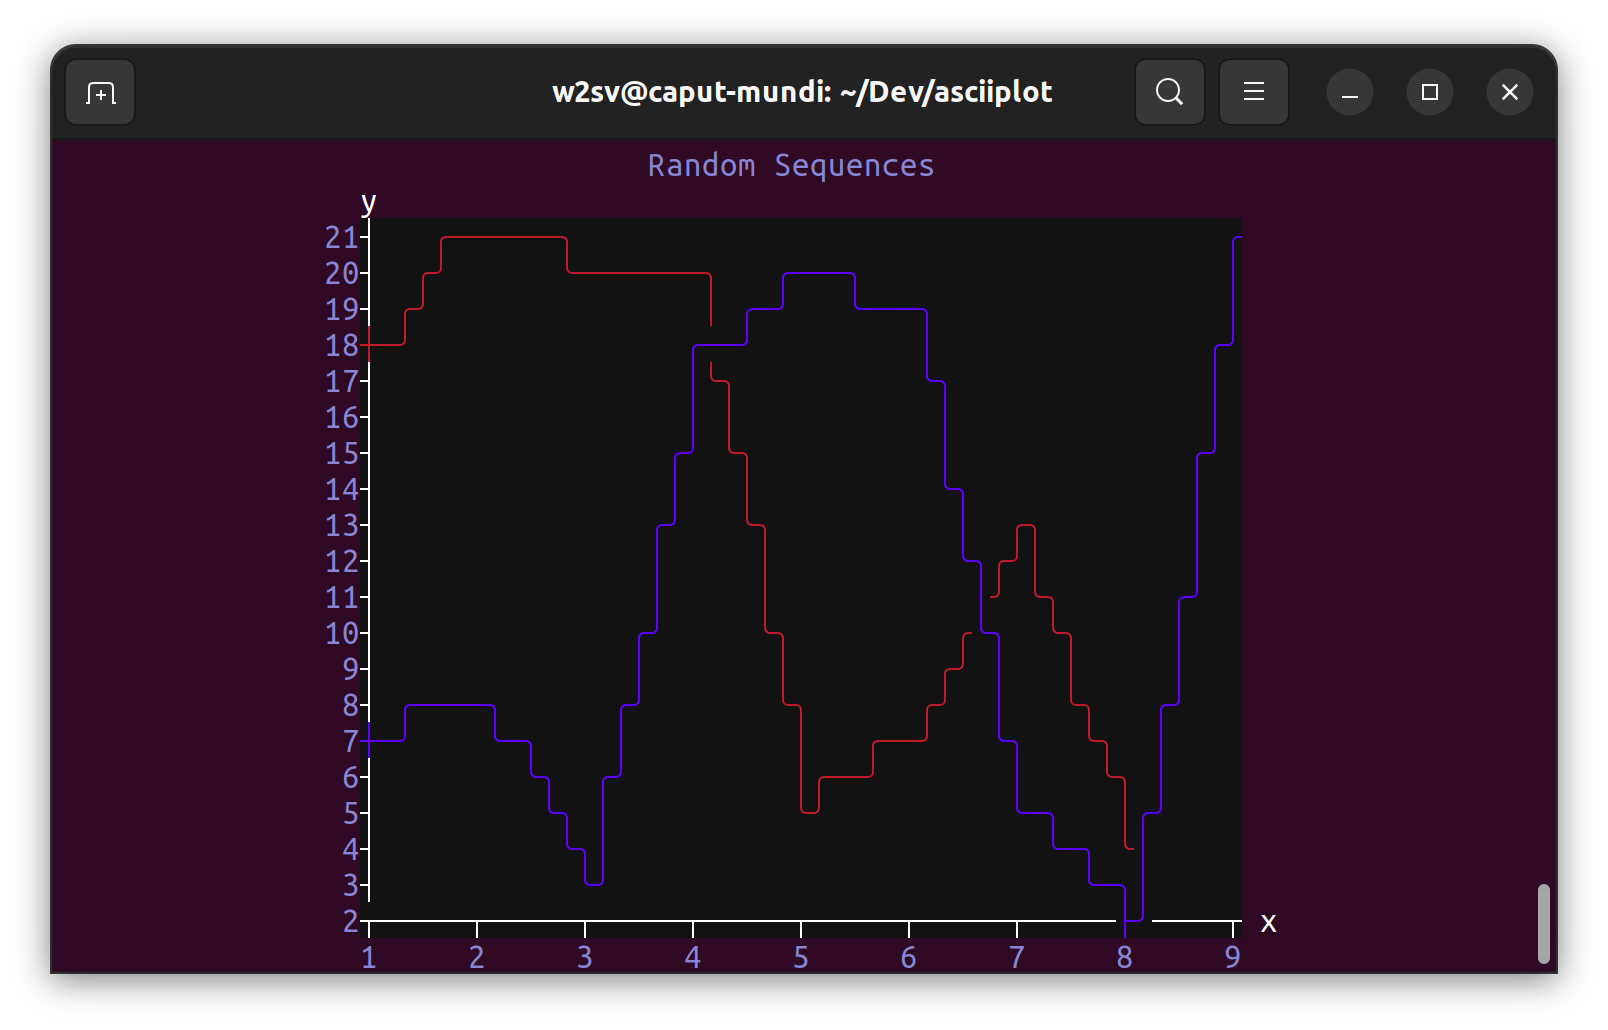
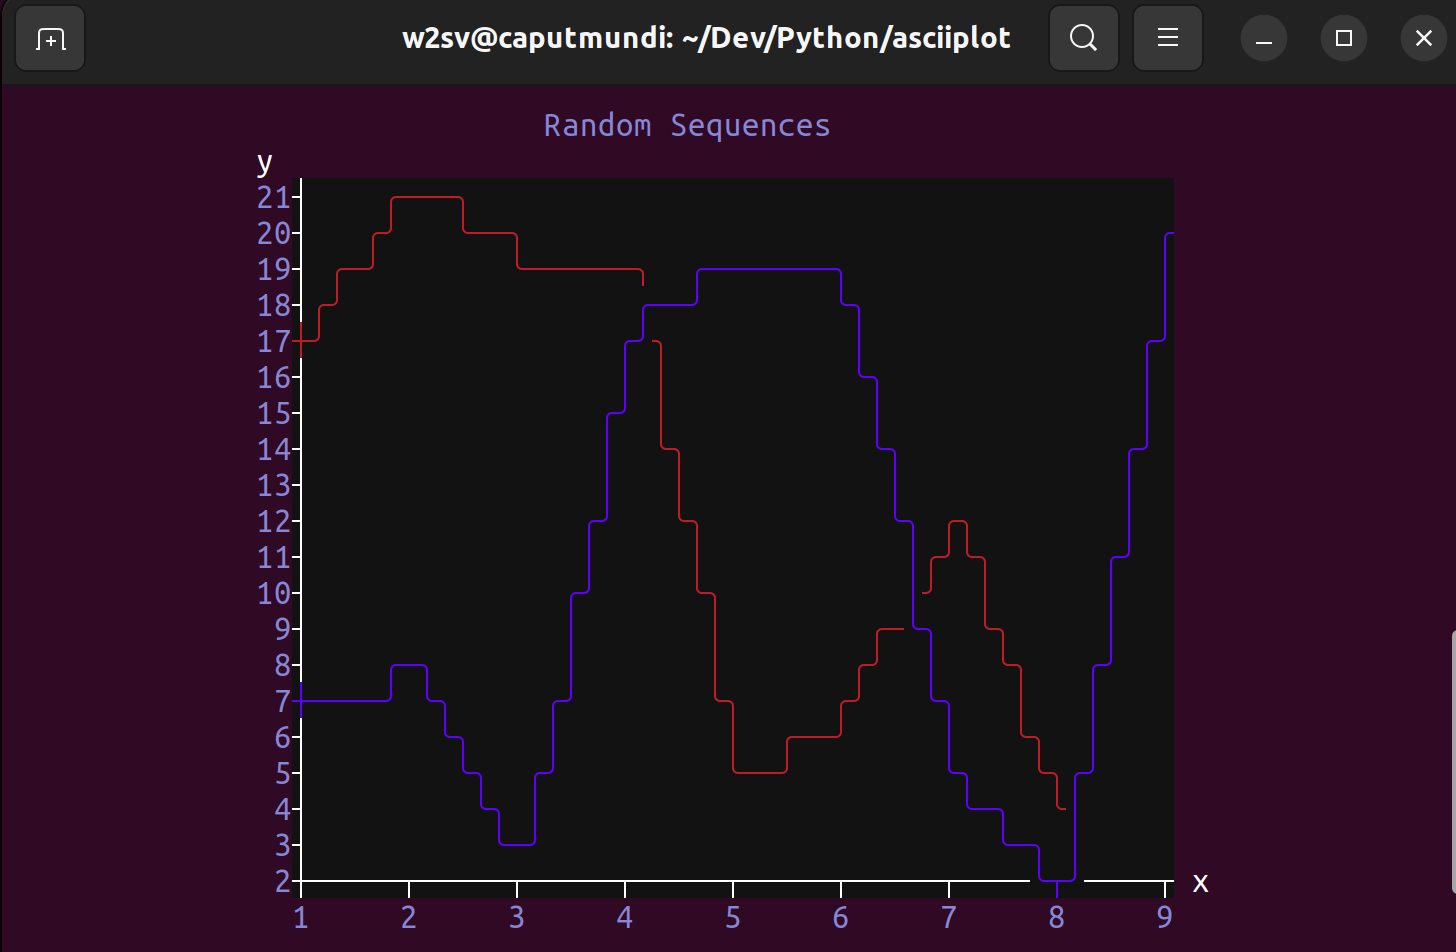
Add tick_point_color arg; Configure README.md; 1.0.0

diff --git a/asciiplot/_chart/grid/__init__.py b/asciiplot/_chart/grid/__init__.py
@@ -1,5 +1,6 @@
 from more_itertools import pairwise
 
+from asciiplot._coloring import Color
 from asciiplot._chart.grid.cell import Cell
 from asciiplot._config import Config
 from asciiplot._params import Params
@@ -35,15 +36,19 @@ class ChartGrid(List[List[Cell]]):
     def add_sequences(self, sequences: PlotSequences):
         for i_sequence, sequence in enumerate(sequences):
             sequence_color = self._config.sequence_colors[i_sequence % len(self._config.sequence_colors)]
+            tick_point_color = sequence_color if self._config.tick_point_color is Color.DEFAULT else self._config.tick_point_color
 
             # add '┼' at beginning where sequence overlaps with y-axis
-            self._cell_at(self._x_grid_domain(sequence[0]), 0).set_foreground('┼', sequence_color)
+            self._cell_at(self._x_grid_domain(sequence[0]), 0).set_foreground('┼', tick_point_color)
 
             for col_index, (x1_value_domain, x2_value_domain) in enumerate(pairwise(sequence)):
-                set_cell = lambda x, segment: self._cell_at(x, col_index + 1).set_foreground(segment, sequence_color)
+                y = col_index + 1
+                set_cell = lambda x, segment: self._cell_at(x, y).set_foreground(segment, sequence_color)
 
                 x1 = self._x_grid_domain(x1_value_domain)
                 x2 = self._x_grid_domain(x2_value_domain)
+
+                x_min, x_max = sorted([x1, x2])
 
                 if x1 == x2:
                     set_cell(x1, '─')
@@ -57,9 +62,11 @@ class ChartGrid(List[List[Cell]]):
                     set_cell(x2, segment_x2)
 
                     # add vertical segments if applicable
-                    x_min, x_max = sorted([x1, x2])
                     for x in range(x_min + 1, x_max):
                         set_cell(x, '│')
+
+                if self._is_tick_point(y):
+                    self._cell_at(x_max, y).fg = tick_point_color
 
     def _cell_at(self, x: int, y: int) -> Cell:
         return self[self._last_row_index - x][y]
@@ -78,7 +85,7 @@ class ChartGrid(List[List[Cell]]):
             # to one comprising both the sequence and axis segment in color
             # of respective sequence
 
-            is_data_point = self._is_data_point(i)
+            is_data_point = self._is_tick_point(i)
 
             if cell.is_empty:
                 self[-1][i].replace_string('┬' if is_data_point else '─')
@@ -115,7 +122,7 @@ class ChartGrid(List[List[Cell]]):
                 )
             )
 
-    def _is_data_point(self, point_index: int) -> bool:
+    def _is_tick_point(self, point_index: int) -> bool:
         """ Returns:
                 boolean, indicating whether point corresponding to point_index is actual
                 data point denoted in original sequences, instead of interpolated

diff --git a/tests/examine.py b/tests/examine.py
@@ -20,6 +20,8 @@ if __name__ == '__main__':
     #     y_axis_tick_label_decimal_places=2
     # )
 
+    print()
+
     x = np.linspace(0, 2 * np.pi, 10)
     y_sin = [np.sin(x_i) for x_i in x]
     y_cos = [np.cos(x_i) for x_i in x]
@@ -28,7 +30,7 @@ if __name__ == '__main__':
         asciiize(
             y_sin,
             y_cos,
-            title="Sin & Cos",
+            # title="Sin & Cos",
             title_color=Color.DARK_GOLDENROD,
             sequence_colors=[Color.PURPLE_3, Color.RED_1],
             background_color=Color.BLACK,
@@ -50,6 +52,7 @@ if __name__ == '__main__':
             inter_points_margin=5,
             sequence_colors=[Color.BLUE_3B],
             label_color=Color.BLUE_VIOLET,
+            tick_point_color=Color.RED_1,
             title='Fibonacci',
             title_color=Color.RED_1,
             center_horizontally=True,
@@ -60,17 +63,23 @@ if __name__ == '__main__':
         )
     )
 
-    # chart = asciiize(
-    #     [17, 21, 19, 19, 5, 7, 12, 4],
-    #     [7, 8, 3, 17, 19, 18, 5, 2, 20],
-    #     sequence_colors=[Color.RED, Color.BLUE_VIOLET],
-    #     inter_points_margin=5,
-    #     height=20,
-    #     background_color=Color.GREY_7,
-    #     title='Random Sequences',
-    #     title_color=Color.MEDIUM_PURPLE,
-    #     label_color=Color.MEDIUM_PURPLE,
-    #     x_axis_description='x',
-    #     y_axis_description='y',
-    #     center_horizontally=True
-    # )
+    print('\n' * 3)
+
+    print(
+        asciiize(
+            [17, 21, 19, 19, 5, 7, 12, 4],
+            [7, 8, 3, 17, 19, 18, 5, 2, 20],
+            sequence_colors=[Color.RED, Color.BLUE_VIOLET],
+            inter_points_margin=5,
+            height=20,
+            background_color=Color.GREY_7,
+            title='Random Sequences',
+            title_color=Color.MEDIUM_PURPLE,
+            label_color=Color.MEDIUM_PURPLE,
+            x_axis_description='x',
+            y_axis_description='y',
+            center_horizontally=True
+        )
+    )
+
+    print('\n' * 3)

diff --git a/asciiplot/_asciiization.py b/asciiplot/_asciiization.py
@@ -16,6 +16,7 @@ def asciiize(*sequences: List[float],
              inter_points_margin: int = 0,
 
              sequence_colors: Sequence[Color] = (Color.DEFAULT,),
+             tick_point_color: Color = Color.DEFAULT,
              background_color: Color = Color.DEFAULT,
              label_color: Color = Color.DEFAULT,
              label_background_color: Color = Color.DEFAULT,
@@ -119,6 +120,7 @@ def asciiize(*sequences: List[float],
         inter_points_margin=inter_points_margin,
         n_points=max_element_length(sequences),
         sequence_colors=sequence_colors,
+        tick_point_color=tick_point_color,
         background_color=background_color,
         label_color=label_color,
         x_axis_tick_label_input=x_axis_tick_labels,

diff --git a/asciiplot/_config.py b/asciiplot/_config.py
@@ -14,6 +14,7 @@ class Config:
     n_points: int
 
     sequence_colors: Sequence[Color]
+    tick_point_color: Color
     background_color: Color
     label_color: Color
 

diff --git a/README.md b/README.md
@@ -8,7 +8,7 @@
 [![Downloads](https://pepy.tech/badge/asciiplot)](https://pepy.tech/project/asciiplot)
 [![GitHub](https://img.shields.io/github/license/w2sv/asciiplot?)](https://github.com/w2sv/asciiplot/blob/master/LICENSE)
 
-#### Platform-agnostic, highly customizable sequence plotting in the console
+__Platform-agnostic, highly customizable sequence plotting in the console__
 ![alt text](https://github.com/w2sv/asciiplot/blob/master/assets/sin&cos.png?raw=true)
 
 ## Installation
@@ -18,11 +18,12 @@ pip install asciiplot
 
 ## Plot Appearance Configuration Options
 
-Set:
+You may set the/a
 - chart height & title
-- the color of virtually all chart components and areas, picked from a wide array of shades due to the integration of [colored](https://pypi.org/project/colored/)
-- consistent margin between consecutive data points to widen your chart
-- the chart indentation within its hosting terminal, or whether it ought to be centered in it, respectively
+- color of virtually all chart components and areas, picked from a wide array of shades due to the integration of [colored](https://pypi.org/project/colored/)
+- margin between consecutive data points to widen your chart
+  - tick point color, to make the tick points visually stand out in case of a margin having been set 
+- chart indentation within its hosting terminal, or whether it ought to be centered in it, respectively
 - axes descriptions
 - x-axis tick labels, which may be set to contain strings instead of just numeric values
 - y-axis tick label decimal places
@@ -35,11 +36,12 @@ from asciiplot import asciiize, Color
 
 print(
     asciiize(
-        [1, 1, 2, 3, 5, 8, 13, 21],
+        [0, 1, 1, 2, 3, 5, 8, 13, 21],
         sequence_colors=[Color.BLUE_3B],
-        height=21,
+        height=22,
         inter_points_margin=5,
         background_color=Color.LIGHT_SALMON_1,
+        tick_point_color=Color.RED_1,
         label_color=Color.BLUE_VIOLET,
         label_background_color=Color.DEEP_PINK_3A,
         title='Fibonacci',
@@ -75,7 +77,7 @@ print(
 ```
 ![alt text](https://github.com/w2sv/asciiplot/blob/master/assets/random.png?raw=true)
 
-## Acknowledgements
+## Credits
 Core sequence asciiization algorithm adopted from [asciichartpy](https://github.com/kroitor/asciichart/blob/master/asciichartpy/)
 
 ## Run Tests
